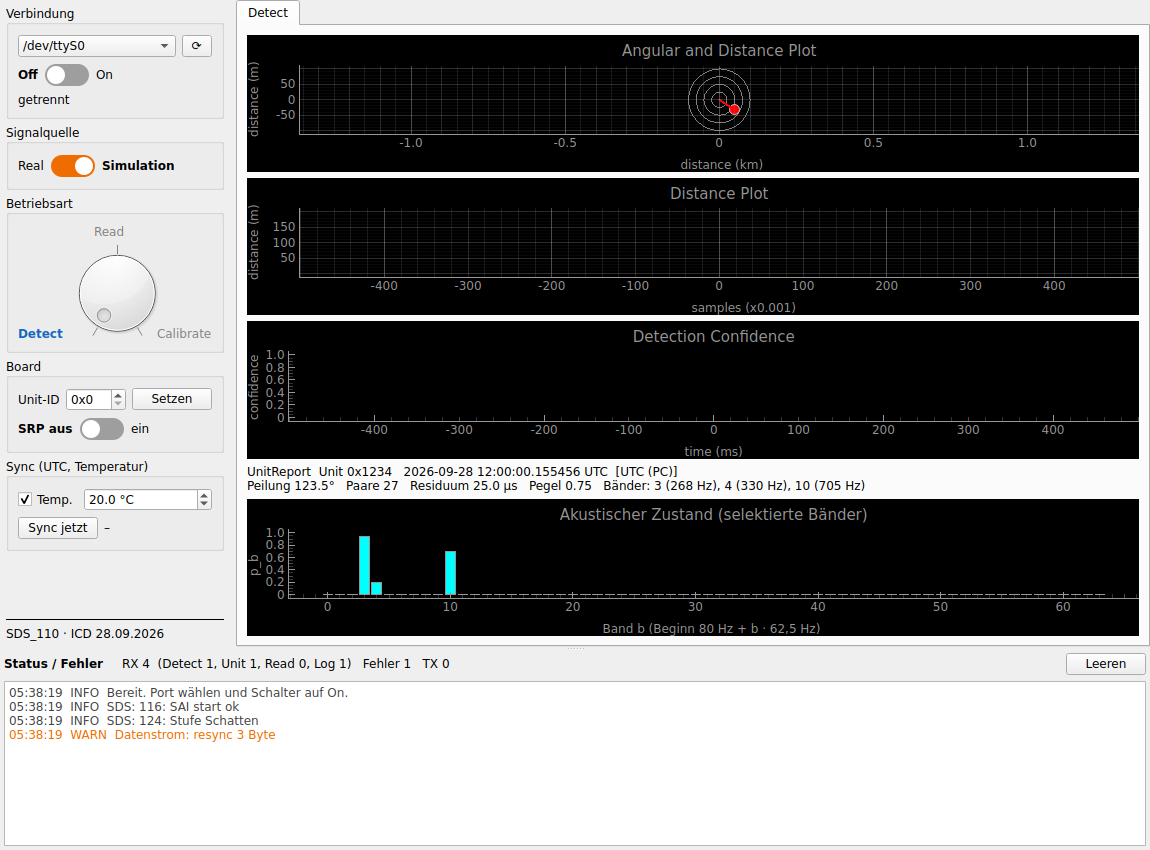
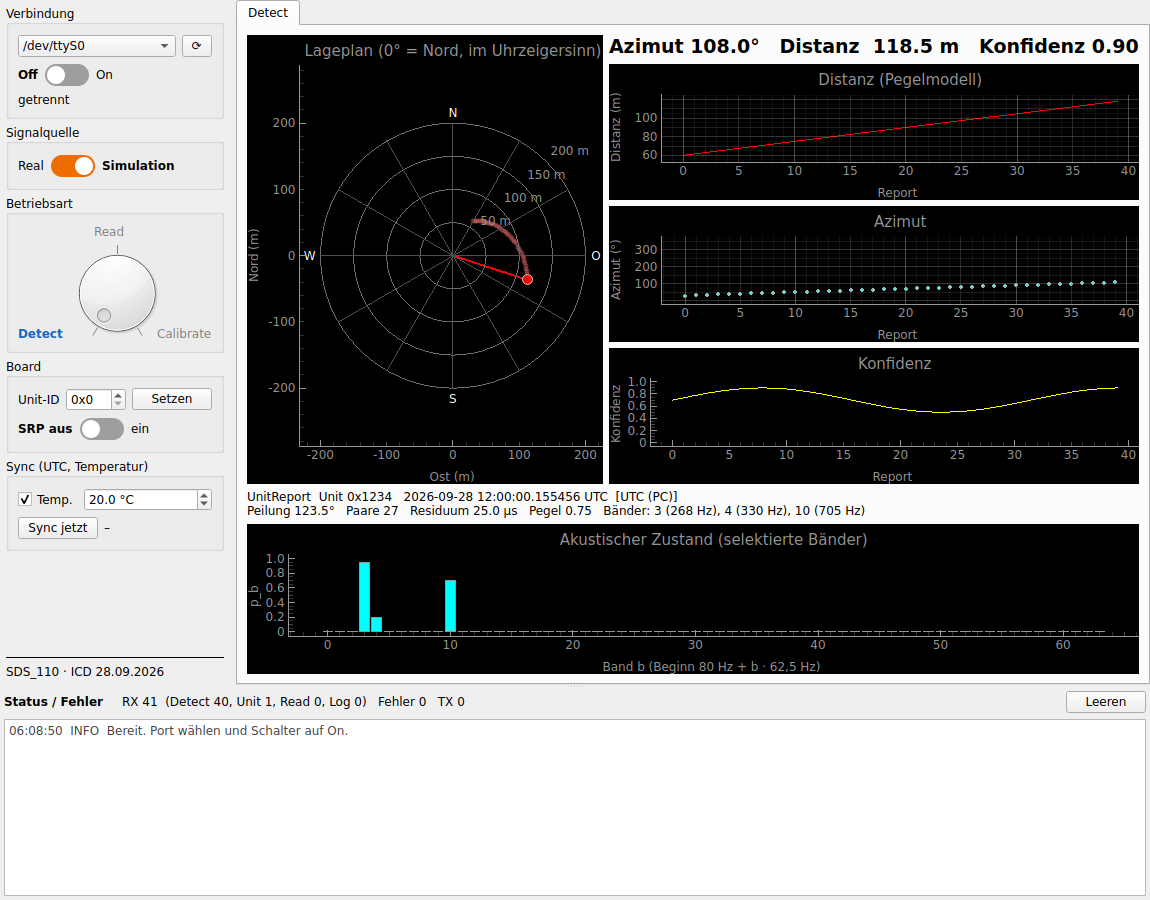
T5: Azimut 0° = Nord im Uhrzeigersinn; Lageplan Nord oben mit Ringen, Himmelsrichtungen, Spur, automatischem Radius
- Detect-Tab: Lageplan Nord oben/Ost rechts, Ringe mit Beschriftung, Strahlen 30°, N/O/S/W,
  Radius 25 m ... 5 km nach größter Distanz, Spur der letzten 60 Positionen; Verläufe Distanz
  (automatisch), Azimut, Konfidenz; Azimut/Distanz/Konfidenz groß angezeigt
- Firmware liefert den Azimut jetzt ebenfalls ab Nord im Uhrzeigersinn (SDS_110 Befund 41)
- test_detect.py; Doku: Analyse_ToDo (P8 behoben, T5 erledigt), Traceability P7 erfüllt

Claude-Session: https://claude.ai/code/session_01J5Zw3oeX5xD9rkdzBfaGfi

diff --git a/app/tabs/tab_detect.py b/app/tabs/tab_detect.py
@@ -1,109 +1,169 @@
+"""
+Detect-Tab (Betriebsart DETECT)
+
+Azimut-Konvention (SDS_110 Infrastructure/Utils/Azimuth.hpp, FSL9 FIG. 5): 0° = Nord, im
+Uhrzeigersinn, Mikrofon 0 zeigt nach Nord. Der Lageplan zeigt Nord oben und Ost rechts:
+x = r · sin(φ) (Ost), y = r · cos(φ) (Nord).
+"""
 import struct
+from collections import deque
+
 import numpy as np
 import pyqtgraph as pg
-from PyQt6.QtWidgets import QLabel, QWidget, QVBoxLayout
+from PyQt6.QtWidgets import QHBoxLayout, QLabel, QVBoxLayout, QWidget
 
 from app.usb.messages import BAND_LO_HZ, BAND_WIDTH_HZ, N_BANDS, UnitReport
+
+RANGES_M = (25, 50, 100, 200, 500, 1000, 2000, 5000)     # Anzeigeradien (automatisch gewählt)
+TRAIL = 60                                               # zuletzt angezeigte Positionen
+HISTORY = 200
+
+
+def compass_xy(azimuth_deg: float, r: float):
+    """Azimut (0° = Nord, im Uhrzeigersinn) und Distanz -> (Ost, Nord) in m."""
+    a = np.deg2rad(azimuth_deg)
+    return float(r * np.sin(a)), float(r * np.cos(a))
+
+
+def choose_range(distances) -> float:
+    """Kleinster Anzeigeradius, der 110 % der größten Distanz fasst."""
+    need = 1.1 * max([d for d in distances if np.isfinite(d)] or [0.0])
+    for r in RANGES_M:
+        if need <= r:
+            return float(r)
+    return float(RANGES_M[-1])
+
 
 class TabDetect(QWidget):
     def __init__(self):
         super().__init__()
-
         layout = QVBoxLayout(self)
+        top = QHBoxLayout()
 
-        # Polar Plot
+        # --- Lageplan: Nord oben, Ost rechts ---------------------------------------------
         self.polar = pg.PlotWidget()
         self.polar.setAspectLocked(True)
-        self.polar.setXRange(-100, 100)
-        self.polar.setYRange(-100, 100)
-        self.polar.showGrid(x=True, y=True)
-
-        # configuration for the polar plot
-        plot_item = self.polar.getPlotItem()
-        plot_item.setLabel('bottom', 'distance', units='m')    # x‑axis
-        plot_item.setLabel('left',   'distance', units='m')    # y‑axis
-        plot_item.setTitle('Angular and Distance Plot')
-
-        for r in [25, 50, 75, 100]:
-            circle = pg.QtWidgets.QGraphicsEllipseItem(-r, -r, 2*r, 2*r)
-            circle.setPen(pg.mkPen('gray'))
-            self.polar.addItem(circle)
-
-        self.point = self.polar.plot(pen=None, symbol='o', symbolBrush='r')
+        self.polar.setMouseEnabled(x=False, y=False)
+        self.polar.hideButtons()
+        pi = self.polar.getPlotItem()
+        pi.setLabel('bottom', 'Ost', units='m')
+        pi.setLabel('left', 'Nord', units='m')
+        pi.setTitle('Lageplan (0° = Nord, im Uhrzeigersinn)')
+        self._grid_items = []
+        self.range_m = None
+        self.trail = self.polar.plot(pen=None, symbol='o', symbolSize=5,
+                                     symbolBrush=pg.mkBrush(255, 120, 120, 90), symbolPen=None)
         self.line = self.polar.plot(pen=pg.mkPen('r', width=2))
+        self.point = self.polar.plot(pen=None, symbol='o', symbolSize=10, symbolBrush='r')
+        self.trail_xy = deque(maxlen=TRAIL)
+        self._set_range(RANGES_M[1])
+        top.addWidget(self.polar, 3)
 
-        layout.addWidget(self.polar)
-
-        # Distance Plot
+        # --- Verläufe --------------------------------------------------------------------
+        right = QVBoxLayout()
+        self.pos_label = QLabel("Azimut –   Distanz –")
+        self.pos_label.setStyleSheet("font-size: 14pt; font-weight: bold;")
+        right.addWidget(self.pos_label)
         self.dist_plot = pg.PlotWidget()
-        self.dist_plot.setYRange(0, 200)
         self.dist_plot.showGrid(x=True, y=True)
         self.dist_curve = self.dist_plot.plot(pen='r')
-        self.dist_history = []
+        self.dist_history = deque(maxlen=HISTORY)
+        p = self.dist_plot.getPlotItem()
+        p.setLabel('bottom', 'Report')
+        p.setLabel('left', 'Distanz', units='m')
+        p.setTitle('Distanz (Pegelmodell)')
+        p.enableAutoRange(axis='y')
+        right.addWidget(self.dist_plot)
 
-        # configuration for the distance plot
-        plot_item = self.dist_plot.getPlotItem()
-        plot_item.setLabel('bottom', 'samples', units='')      # x‑axis
-        plot_item.setLabel('left',   'distance', units='m')    # y‑axis
-        plot_item.setTitle('Distance Plot')
+        self.az_plot = pg.PlotWidget()
+        self.az_plot.setYRange(0, 360)
+        self.az_plot.showGrid(x=True, y=True)
+        self.az_curve = self.az_plot.plot(pen=None, symbol='o', symbolSize=3, symbolBrush='c')
+        self.az_history = deque(maxlen=HISTORY)
+        p = self.az_plot.getPlotItem()
+        p.setLabel('bottom', 'Report')
+        p.setLabel('left', 'Azimut', units='°')
+        p.setTitle('Azimut')
+        right.addWidget(self.az_plot)
 
-        layout.addWidget(self.dist_plot)
-
-         # Confidence Plot
         self.plot_conf = pg.PlotWidget()
         self.plot_conf.setYRange(0, 1)
         self.curve_conf = self.plot_conf.plot(pen='y')
-        self.conf_history = []
+        self.conf_history = deque(maxlen=HISTORY)
+        p = self.plot_conf.getPlotItem()
+        p.setLabel('bottom', 'Report')
+        p.setLabel('left', 'Konfidenz')
+        p.setTitle('Konfidenz')
+        right.addWidget(self.plot_conf)
+        top.addLayout(right, 2)
+        layout.addLayout(top, 3)
 
-        self.plot_conf.getPlotItem().setLabel('bottom', 'time', units='s')
-        self.plot_conf.getPlotItem().setLabel('left', 'confidence', units='')
-        self.plot_conf.getPlotItem().setTitle('Detection Confidence')
-
-        layout.addWidget(self.plot_conf)
-
-        # UnitReport (Id 5): Zeit, Qualität, akustischer Zustand p_b je Band
+        # --- UnitReport (Id 5): Zeit, Qualität, akustischer Zustand p_b je Band ----------
         self.unit_label = QLabel("UnitReport: –")
         layout.addWidget(self.unit_label)
         self.plot_state = pg.PlotWidget()
         self.plot_state.setYRange(0, 1)
         self.plot_state.setXRange(-0.5, N_BANDS - 0.5)
-        pi = self.plot_state.getPlotItem()
-        pi.setLabel('bottom', 'Band b (Beginn 80 Hz + b · 62,5 Hz)')
-        pi.setLabel('left', 'p_b')
-        pi.setTitle('Akustischer Zustand (selektierte Bänder)')
+        ps = self.plot_state.getPlotItem()
+        ps.setLabel('bottom', 'Band b (Beginn 80 Hz + b · 62,5 Hz)')
+        ps.setLabel('left', 'p_b')
+        ps.setTitle('Akustischer Zustand (selektierte Bänder)')
         self.state_bars = pg.BarGraphItem(x=np.arange(N_BANDS), height=np.zeros(N_BANDS), width=0.8, brush='c')
         self.plot_state.addItem(self.state_bars)
-        layout.addWidget(self.plot_state)
+        layout.addWidget(self.plot_state, 1)
         self.last_unit_report = None
 
+    # ------------------------------------------------------------
+    def _set_range(self, r: float):
+        """Ringe, Strahlen und Himmelsrichtungen für Radius r zeichnen."""
+        if r == self.range_m:
+            return
+        self.range_m = r
+        for it in self._grid_items:
+            self.polar.removeItem(it)
+        self._grid_items = []
+        pen = pg.mkPen((110, 110, 110), width=1)
+        for k in (1, 2, 3, 4):
+            rr = r * k / 4
+            c = pg.QtWidgets.QGraphicsEllipseItem(-rr, -rr, 2 * rr, 2 * rr)
+            c.setPen(pen)
+            self.polar.addItem(c)
+            self._grid_items.append(c)
+            t = pg.TextItem(f"{rr:g} m", color=(150, 150, 150), anchor=(0, 1))
+            t.setPos(*compass_xy(45, rr))
+            self.polar.addItem(t)
+            self._grid_items.append(t)
+        for az in range(0, 360, 30):
+            x, y = compass_xy(az, r)
+            ln = self.polar.plot([0, x], [0, y], pen=pg.mkPen((80, 80, 80), width=1))
+            self._grid_items.append(ln)
+        for name, az in (("N", 0), ("O", 90), ("S", 180), ("W", 270)):
+            t = pg.TextItem(name, color='w', anchor=(0.5, 0.5))
+            t.setPos(*compass_xy(az, r * 1.08))
+            self.polar.addItem(t)
+            self._grid_items.append(t)
+        m = r * 1.15
+        self.polar.setXRange(-m, m, padding=0)
+        self.polar.setYRange(-m, m, padding=0)
+
     def update_frame(self, frame: bytes):
-        timestamp = struct.unpack_from("<I", frame, 8)[0]
-        mic      = struct.unpack_from("<I", frame, 12)[0]
-        azi      = struct.unpack_from("<f", frame, 16)[0]
-        dist     = struct.unpack_from("<f", frame, 20)[0]
-        conf     = struct.unpack_from("<f", frame, 24)[0]
+        _ts, _unit = struct.unpack_from("<II", frame, 8)
+        azi, dist, conf = struct.unpack_from("<fff", frame, 16)
+        x, y = compass_xy(azi, dist)
+        self.trail_xy.append((x, y))
+        self.dist_history.append(dist)
+        self.az_history.append(azi % 360.0)
+        self.conf_history.append(conf)
 
-        rad = np.deg2rad(azi)
-        x = dist * np.sin(rad)
-        y = dist * np.cos(rad)
-
-        # Update polar plot
+        self._set_range(choose_range(self.dist_history))
         self.point.setData([x], [y])
         self.line.setData([0, x], [0, y])
-
-        # Update distance plot
-        self.dist_history.append(dist)
-        if len(self.dist_history) > 200:
-            self.dist_history.pop(0)
-
-        self.dist_curve.setData(self.dist_history)
-
-        # Update confidence plot
-        self.conf_history.append(conf)
-        if len(self.conf_history) > 200:
-            self.conf_history.pop(0)
-
-        self.curve_conf.setData(self.conf_history)
+        tx, ty = zip(*self.trail_xy)
+        self.trail.setData(list(tx), list(ty))
+        self.dist_curve.setData(list(self.dist_history))
+        self.az_curve.setData(list(self.az_history))
+        self.curve_conf.setData(list(self.conf_history))
+        self.pos_label.setText(f"Azimut {azi % 360.0:5.1f}°   Distanz {dist:6.1f} m   Konfidenz {conf:.2f}")
 
     def update_unit_report(self, r: UnitReport):
         self.last_unit_report = r

diff --git a/tests/test_detect.py b/tests/test_detect.py
@@ -1,0 +1,35 @@
+"""Detect-Tab (T5): Azimut 0° = Nord, im Uhrzeigersinn; Lageplan Nord oben, Ost rechts; Radius automatisch."""
+import os
+
+os.environ.setdefault("QT_QPA_PLATFORM", "offscreen")
+
+import pytest
+from PyQt6.QtWidgets import QApplication
+
+from app.tabs.tab_detect import choose_range, compass_xy, TabDetect
+from tests import sds_frames as F
+
+
+@pytest.mark.parametrize("az,exp", [(0, (0, 100)), (90, (100, 0)), (180, (0, -100)), (270, (-100, 0)),
+                                    (45, (70.71, 70.71))])
+def test_compass_xy(az, exp):
+    x, y = compass_xy(az, 100)
+    assert x == pytest.approx(exp[0], abs=0.01) and y == pytest.approx(exp[1], abs=0.01)
+
+
+def test_choose_range():
+    assert choose_range([]) == 25 and choose_range([40]) == 50 and choose_range([95]) == 200
+    assert choose_range([300, 10]) == 500 and choose_range([1e6]) == 5000
+
+
+def test_point_east_and_range_follows_distance():
+    app = QApplication.instance() or QApplication([])
+    t = TabDetect()
+    t.update_frame(F.detect(azi=90.0, dist=300.0, conf=0.7))
+    xs, ys = t.point.getData()
+    assert xs[0] == pytest.approx(300, abs=0.01) and ys[0] == pytest.approx(0, abs=0.01)
+    assert t.range_m == 500
+    assert "Azimut  90.0°" in t.pos_label.text()
+    t.update_frame(F.detect(azi=359.0, dist=20.0, conf=0.7))
+    assert t.range_m == 500                         # Verlauf enthält noch 300 m
+    assert len(t.trail_xy) == 2

diff --git a/docs/Analyse_ToDo.md b/docs/Analyse_ToDo.md
@@ -36,8 +36,8 @@ Status: **behoben** = in diesem Stand umgesetzt und getestet, **offen** = in der
 | P5 | hoch | Die Länge aus `len_id` wird nicht geprüft | Bei einer Länge < 8 wird mit negativer Länge gelesen; bei großen Werten blockiert das Lesen bzw. es werden Frames verschluckt | behoben (T1) |
 | P6 | hoch | UnitReport (Id 5) und Logger (Id 99) sind unbekannt und werden als Fehler gezählt | µs-Zeit, Zeitquelle, Paare, Residuum, Bänder und p_b sowie die Meldungen der Firmware werden nicht angezeigt | behoben (T2) |
 | P7 | hoch | Es fehlen die Kommandos Sync (Id 7: UTC und Temperatur), Unit-ID (5) und SRP-Referenz (6). Id 1 sendet immer 0. | kein UTC-Bezug, Schallgeschwindigkeit bleibt 343 m/s (FSL9 A23), keine Einheiten-Kennung | behoben (Id 3 mit dem Redesign, Id 5, 6, 7 mit T3) |
-| P8 | mittel | Der Detect-Tab zeichnet x = d·sin φ, y = d·cos φ, also φ ab Nord im Uhrzeigersinn; die Firmware sendet φ ab der x-Achse gegen den Uhrzeigersinn | Das Ziel erscheint gespiegelt und gedreht (Firmware 90° wird rechts statt oben gezeichnet) | offen (T5), Konvention mit FSL9 A28 festlegen |
-| P9 | mittel | Die Achsen im Detect-Tab sind fest (±100 m, 0–200 m); die Unit-ID wird ignoriert; es gibt keine Spur und keinen Verlauf | Ziele außerhalb von 100 m fallen aus dem Bild, mehrere Einheiten sind nicht unterscheidbar | offen (T5, T7) |
+| P8 | mittel | Der Detect-Tab zeichnet x = d·sin φ, y = d·cos φ, also φ ab Nord im Uhrzeigersinn; die Firmware sendet φ ab der x-Achse gegen den Uhrzeigersinn | Das Ziel erscheint gespiegelt und gedreht (Firmware 90° wird rechts statt oben gezeichnet) | behoben (T5): Konvention 0° = Nord, im Uhrzeigersinn, Mikrofon 0 = Nord in Firmware (SDS_110 Befund 41) und PC |
+| P9 | mittel | Die Achsen im Detect-Tab sind fest (±100 m, 0–200 m); die Unit-ID wird ignoriert; es gibt keine Spur und keinen Verlauf | Ziele außerhalb von 100 m fallen aus dem Bild, mehrere Einheiten sind nicht unterscheidbar | Achsen und Verlauf behoben (T5); mehrere Einheiten offen (T7) |
 | P10 | hoch | Der Read-Tab teilt die 128 Werte in 8 Mikrofone × 16 auf. Tatsächlich enthält jede Nachricht 128 Samples **eines** Mikrofons (`micNr`) für Block `frameNr` 0…11. Die Werte werden als uint32 statt int32 gelesen. | Pegel und Werte sind falsch, negative Samples erscheinen als ~4·10⁹, der Hop wird nicht zusammengesetzt | behoben (T4, 28.09.2026) |
 | P11 | hoch | Bei READ kommen ~3000 Nachrichten/s. Der Reader meldete jedes Frame als Hex-Text, der Inspector baute bei jedem Frame seinen Text neu auf, und der Read-Tab setzt bei jedem Frame seinen Text | Die GUI friert ein, der Speicher wächst (Queues ohne Grenze) | behoben: Log-Flut, Read-Tab zeichnet mit 10 Hz, Zeitbudget je Poll, begrenzte Queues (T4) |
 | P12 | mittel | `serial.read()` mit 0,1 s Timeout kann den Rest eines Frames nur teilweise liefern | Meldung „payload_incomplete“ und danach Versatz (P3) | behoben (T1: Bytestrom statt fester Lesegrößen) |
@@ -122,6 +122,17 @@ Tests ohne Hardware (`python -m pytest tests/test_protocol.py tests/test_gui.py 
 
 ![Read](gui_read.png)
 
+## 3c. Umgesetzt: Azimut und Lageplan (T5, 28.09.2026)
+
+- **Festlegung:** 0° = Nord, im Uhrzeigersinn, Mikrofon 0 zeigt nach Nord. Umgesetzt ist das in der Firmware (SDS_110 `Azimuth.hpp`, Befund 41) und hier.
+- **Lageplan:**
+  - Nord oben, Ost rechts (x = r · sin φ, y = r · cos φ).
+  - Ringe mit Beschriftung, Strahlen alle 30° und Himmelsrichtungen N/O/S/W.
+  - Der Radius passt sich an die größte Distanz im Verlauf an (25 m … 5 km).
+  - Die Spur zeigt die letzten 60 Positionen.
+- **Verläufe:** Distanz (automatische Skala), Azimut und Konfidenz über die letzten 200 Reports; groß angezeigt werden Azimut, Distanz und Konfidenz des letzten Reports.
+- **Tests:** `test_detect.py` prüft die Umrechnung für N/O/S/W/NO, die Wahl des Radius und den Punkt im Osten bei 90°.
+
 ## 4. ToDo-Liste
 
 | Nr. | Prio | Aufgabe | Befunde | Aufwand |
@@ -130,7 +141,7 @@ Tests ohne Hardware (`python -m pytest tests/test_protocol.py tests/test_gui.py 
 | T2 | erledigt | UnitReport Id 5 parsen: µs-Zeit und Quelle, Paare, Residuum, Bänder mit p_b, Anzeige im Detect-Tab (Balken p_b je Band). Logger Id 99 als INFO ins Status-Fenster. | P6 | mittel |
 | T3 | erledigt | Sync Id 7 senden: beim Verbinden und dann jede Minute, UTC in µs und Temperatur aus einem Eingabefeld (später Sensor). Außerdem Unit-ID Id 5 und einen Schalter SRP-Referenz Id 6 ins Bedienfeld. | P7 | klein |
 | T4 | erledigt | Den Read-Tab neu bauen: Hop aus 8 × 12 Blöcken zusammensetzen, int32 lesen, Pegel je Mikrofon in dBFS, Wellenform und Spektrum. Anzeige mit höchstens 10 Hz, Queues begrenzen. | P10, P11 | mittel |
-| T5 | mittel | Azimut-Konvention mit der Firmware festlegen (FSL9 A28: ab Nord). Detect-Plot danach ausrichten, Achsen automatisch skalieren, Verlauf der Ziele. | P8, P9 | klein |
+| T5 | erledigt | Azimut-Konvention mit der Firmware festlegen (FSL9 A28: ab Nord). Detect-Plot danach ausrichten, Achsen automatisch skalieren, Verlauf der Ziele. | P8, P9 | klein |
 | T6 | mittel | Einen USB-Abbruch erkennen: Reader meldet den Abbruch, der Schalter geht auf Off, Fehlermeldung | P16 | klein |
 | T7 | hoch | Mehrere Einheiten: je Einheit ein Port bzw. eine Unit-ID, Positionen konfigurierbar. PC-Teil von 126 und 128 (Multilateration N ≥ 3, gemeinsamer Modus N = 2) und Candidate Report (130). Dafür muss die Firmware Spektren oder TDOA je Einheit liefern (Architektur klären). | P17, P19 | groß |
 | T8 | hoch | Tracking-Einheit (150) als eigenes Modul: ŝ mit α = 0,2, Kalman-Filter mit konstanter Geschwindigkeit, Kosinus > 0,7, χ²-Gate, Bestätigung nach 3 Reports, Ende nach 2 s, Ausgabe der Trajektorie, Feedback Id 8 an das Board | P17 | groß |

diff --git a/docs/Traceability_FSL9_PC.md b/docs/Traceability_FSL9_PC.md
@@ -9,7 +9,7 @@
 
 ## Zusammenfassung
 
-Von 25 Anforderungen an den PC-Monitor sind 6 erfüllt, 3 teilweise erfüllt, 14 nicht erfüllt, 1 offen und 1 nicht im Umfang (Stand nach T1–T3).
+Von 25 Anforderungen an den PC-Monitor sind 7 erfüllt, 3 teilweise erfüllt, 14 nicht erfüllt und 1 nicht im Umfang (Stand nach T1–T5).
 
 - Der PC-Monitor ist heute eine Anzeige für **eine** Einheit. Er steuert Betriebsart, Signalquelle, Unit-ID und SRP, sendet UTC und Temperatur (Sync) und zeigt Detect-Frame und UnitReport an: UTC in µs, Paare, Residuum, Bänder mit p_b.
 - Die patentwesentlichen PC-Funktionen fehlen vollständig:
@@ -32,7 +32,7 @@ Code-Referenzen beziehen sich auf `app/`.
 | P4 | §5, Anspr. 1(e), 10 | Inter-Unit-GCC-PHAT | Korrelation zwischen Einheiten mit gemeinsamer Selektion und Gewichten | nicht vorhanden; die Daten dafür werden nicht übertragen (Architekturfrage) | – | Nicht erfüllt |
 | P5 | §6(a) | Multilateration | N ≥ 3: Hyperbeln \|x − u_i\| − \|x − u_j\| = c·τ_ij, gewichtete LS, Gewicht = Peak-Ratio | nicht vorhanden | – | Nicht erfüllt |
 | P6 | §6(b) | Gemeinsamer Modus | N = 2: eine Hyperbel + zwei Peilungen, gewichtete LS | nicht vorhanden; die Peilungen im UnitReport Id 5 werden nicht gelesen | – | Nicht erfüllt |
-| P7 | §6, FIG. 5 | Referenzpunkt und Azimut | Zentroid der Einheiten, φ ab Nord | eine Einheit, Ursprung = Array. Der Plot zeichnet φ ab Nord im Uhrzeigersinn, die Firmware liefert φ ab der x-Achse gegen den Uhrzeigersinn (Befund P8). | `tabs/tab_detect.py update_frame` | Offen |
+| P7 | §6, FIG. 5 | Referenzpunkt und Azimut | Zentroid der Einheiten, φ ab Nord | Azimut 0° = Nord, im Uhrzeigersinn, Mikrofon 0 = Nord in Firmware und Lageplan (Nord oben, Ost rechts); Referenzpunkt = Array (eine Einheit, gleich dem Zentroid); Zentroid mehrerer Einheiten mit T7 | `tabs/tab_detect.py compass_xy`, SDS_110 `Azimuth.hpp` | Erfüllt |
 | P8 | §6 | Kein Kandidat ohne ausreichende TDOA | bei < 2 unabhängigen TDOA (a) bzw. fehlender Peilung (b) keine Position | Lokalisation fehlt (P5, P6) | – | Nicht erfüllt |
 | P9 | §7, Anspr. 1(g) | Candidate Report: Zeit | UTC, µs | UnitReport Id 5: time_us (u64) mit Zeitquelle, angezeigt als UTC mit µs bzw. Laufzeit | `usb/messages.py parse_unit_report, time_text`, `tabs/tab_detect.py update_unit_report` | Erfüllt |
 | P10 | §7 | Candidate Report: Ort | φ und r | φ und r aus Detect Id 1 angezeigt; r aus dem Pegelmodell einer Einheit, nicht aus TDOA | `tabs/tab_detect.py update_frame` | Teilweise |
@@ -60,6 +60,6 @@ Die Zeilen P23 und P24 stammen aus der ICD und nicht aus FSL9. Die Zählung in d
 | --- | --- | --- | --- |
 | 1 | P9–P13 | erledigt: UnitReport Id 5 lesen und anzeigen, Reader mit Resync und CRC | T1, T2 |
 | 2 | P1, P2 | erledigt: Sync Id 7 mit UTC und Temperatur; offen: Temperatursensor, GNSS-PPS (HW-Version 2) | T3 |
-| 3 | P7 | Azimut-Konvention festlegen (ab Nord) und in Firmware und Plot einheitlich umsetzen | T5 |
+| 3 | P7 | erledigt: Azimut ab Nord im Uhrzeigersinn in Firmware und Plot | T5 |
 | 4 | P14–P21 | Tracking-Einheit als eigenes Modul (Komponente B), zunächst mit Reports **einer** Einheit (Peilung + Pegel-Distanz); Feedback Id 8 zusammen mit der Firmware festlegen | T8 |
 | 5 | P3–P6, P8, P22 | Mehrere Einheiten und Lokalisation (Komponente A); vorher die Architekturfrage klären | T7 |
